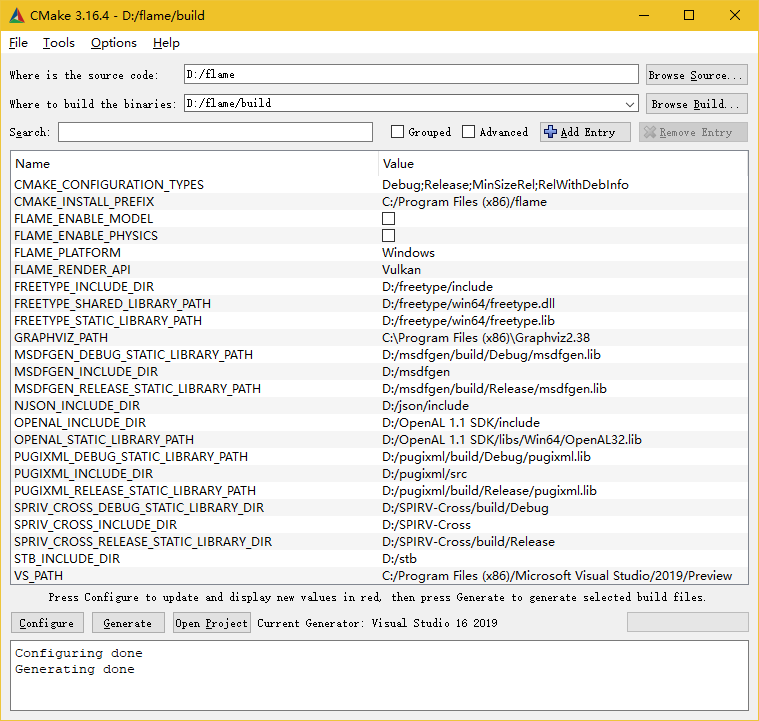
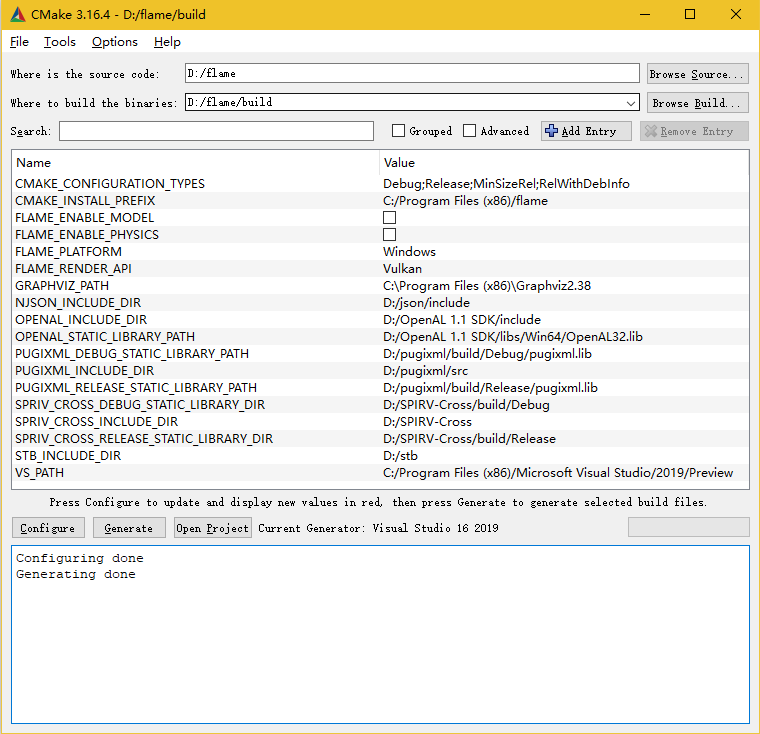
remove freetype

Changed region(s): [[0.0, 0.0, 1.0, 1.0], [0.5455, 0.8544, 0.5758, 0.8849]]

diff --git a/source/graphics/font.cpp b/source/graphics/font.cpp
@@ -5,10 +5,8 @@
 #include <flame/graphics/image.h>
 #include <flame/graphics/font.h>
 
-#include <ft2build.h>
-#include <freetype/freetype.h>
-#include <freetype/ftlcdfil.h>
-#include FT_OUTLINE_H
+#define STB_TRUETYPE_IMPLEMENTATION
+#include <stb_truetype.h>
 
 #include <flame/reflect_macros.h>
 
@@ -16,8 +14,6 @@ namespace flame
 {
 	namespace graphics
 	{
-		FT_Library ft_library = 0;
-
 		void get_latin_code_range(wchar_t& out_begin, wchar_t& out_end)
 		{
 			out_begin = 0x20;
@@ -28,7 +24,7 @@ namespace flame
 		{
 			std::wstring filename;
 			std::string font_file;
-			FT_Face ft_face;
+			stbtt_fontinfo info;
 			uint ref_count;
 
 			Font(const std::wstring& _filename)
@@ -36,20 +32,9 @@ namespace flame
 				filename = _filename;
 				font_file = get_file_content(filename);
 
-				if (!ft_library)
-				{
-					FT_Init_FreeType(&ft_library);
-					FT_Library_SetLcdFilter(ft_library, FT_LCD_FILTER_DEFAULT);
-				}
-
-				FT_New_Memory_Face(ft_library, (uchar*)font_file.data(), font_file.size(), 0, &ft_face);
+				stbtt_InitFont(&info, (uchar*)font_file.data(), stbtt_GetFontOffsetForIndex((uchar*)font_file.data(), 0));
 
 				ref_count = 0;
-			}
-
-			~Font()
-			{
-				FT_Done_Face(ft_face);
 			}
 		};
 
@@ -157,52 +142,36 @@ namespace flame
 
 					for (auto font : fonts)
 					{
-						auto ft_face = font->ft_face;
-						auto glyph_index = FT_Get_Char_Index(ft_face, unicode);
-						if (glyph_index == 0)
+						auto info = &font->info;
+						auto index = stbtt_FindGlyphIndex(info, unicode);
+						if (index == 0)
 							continue;
 
-						FT_Size_RequestRec ft_req = {};
-						ft_req.type = FT_SIZE_REQUEST_TYPE_REAL_DIM;
-						ft_req.height = font_size * 64;
-						FT_Request_Size(ft_face, &ft_req);
-						auto ascender = ft_face->size->metrics.ascender / 64;
-
-						FT_Load_Glyph(ft_face, glyph_index, FT_LOAD_DEFAULT);
-
-						auto ft_glyph = ft_face->glyph;
-						auto size = Vec2u(ft_glyph->bitmap.width, ft_glyph->bitmap.rows);
-						g->size = size;
-						g->off = Vec2u(ft_glyph->bitmap_left, ascender + g->size.y() - ft_glyph->metrics.horiBearingY / 64.f);
-						g->advance = ft_glyph->advance.x / 64;
-
-						if (size > 0U)
+						auto scale = stbtt_ScaleForPixelHeight(info, font_size);
+						auto x = 0, y = 0, w = 0, h = 0, ascent = 0, adv = 0;
+						auto bitmap = stbtt_GetGlyphBitmap(info, scale, scale, index, &w, &h, &x, &y);
+						stbtt_GetFontVMetrics(info, &ascent, 0, 0);
+						ascent *= scale;
+						stbtt_GetGlyphHMetrics(info, index, &adv, nullptr);
+						adv *= scale;
+						g->size = Vec2u(w, h);
+						g->off = Vec2u(x, ascent + h + y);
+						g->advance = adv;
+						if (bitmap)
 						{
-							auto n = bin_pack_root->find(size);
+							auto n = bin_pack_root->find(g->size);
 							if (n)
 							{
 								auto& atlas_pos = n->pos;
 
-								FT_Render_Glyph(ft_glyph, FT_RENDER_MODE_NORMAL);
+								image->set_pixels(atlas_pos, g->size, bitmap);
 
-								auto pitch_ft = ft_glyph->bitmap.pitch;
-								auto pitch_temp = size.x();
-								auto temp = new uchar[pitch_temp * size.y()];
-								for (auto y = 0; y < size.y(); y++)
-								{
-									for (auto x = 0; x < size.x(); x++)
-										temp[y * pitch_temp + x] = ft_glyph->bitmap.buffer[y * pitch_ft + x];
-								}
-
-								image->set_pixels(atlas_pos, size, temp);
-
-								delete[] temp;
-
-								g->uv0 = Vec2f(atlas_pos.x(), atlas_pos.y() + size.y()) / image->size;
-								g->uv1 = Vec2f(atlas_pos.x() + size.x(), atlas_pos.y()) / image->size;
+								g->uv0 = Vec2f(atlas_pos.x(), atlas_pos.y() + g->size.y()) / image->size;
+								g->uv1 = Vec2f(atlas_pos.x() + g->size.x(), atlas_pos.y()) / image->size;
 							}
 							else
 								printf("font atlas is full\n");
+							delete[]bitmap;
 						}
 
 						break;

diff --git a/include/flame/utils/app.h b/include/flame/utils/app.h
@@ -125,12 +125,9 @@ namespace flame
 			sound_context = sound::Context::create(sound_device);
 			sound_context->make_current();
 
-			auto msyh_path = L"c:/windows/fonts/msyh.ttc";
-			if (!std::filesystem::exists(msyh_path))
-				msyh_path = L"c:/windows/fonts/msyh.ttf";
 			auto font_awesome_path = engine_path / L"art/font_awesome.ttf";
 			const wchar_t* fonts[] = {
-				msyh_path,
+				L"c:/windows/fonts/arial.ttf",
 				font_awesome_path.c_str(),
 			};
 			font_atlas = graphics::FontAtlas::create(graphics_device, 2, fonts);

diff --git a/source/foundation/blueprint.cpp b/source/foundation/blueprint.cpp
@@ -117,6 +117,8 @@ namespace flame
 
 		void update_resources_file()
 		{
+			if (test_mode)
+				return;
 			std::filesystem::path path(filename);
 			path.replace_filename(L"bpres");
 			std::ofstream file(path);
@@ -1275,6 +1277,7 @@ namespace flame
 
 		auto bp = new BPPrivate();
 		bp->filename = filename;
+		bp->test_mode = test_mode;
 		bp->update_resources_file();
 
 		for (auto& l_d : library_descs)

diff --git a/tools/bp_editor/main.cpp b/tools/bp_editor/main.cpp
@@ -913,7 +913,7 @@ bool MyApp::create(const char* filename)
 	}
 	utils::c_layout();
 
-	utils::push_font_atlas(app.font_atlas_pixel);
+	utils::push_font_atlas(app.font_atlas);
 	utils::set_current_root(root);
 	utils::push_parent(root);
 

diff --git a/source/sound/buffer_private.h b/source/sound/buffer_private.h
@@ -3,8 +3,6 @@
 #include <flame/sound/buffer.h>
 #include "sound_private.h"
 
-#include <fstream>
-
 namespace flame
 {
 	namespace sound

diff --git a/source/sound/buffer.cpp b/source/sound/buffer.cpp
@@ -1,6 +1,5 @@
-#include "buffer_private.h"
-
 #include <flame/serialize.h>
+#include "buffer_private.h"
 
 namespace flame
 {

diff --git a/include/flame/sound/buffer.h b/include/flame/sound/buffer.h
@@ -2,8 +2,6 @@
 
 #include <flame/sound/sound.h>
 
-#include <string>
-
 namespace flame
 {
 	namespace sound

diff --git a/include/flame/foundation/blueprint.h b/include/flame/foundation/blueprint.h
@@ -141,6 +141,7 @@ namespace flame
 			return 0;
 		}
 
+		bool test_mode;
 		uint frame;
 		float time;
 

diff --git a/README.md b/README.md
@@ -16,8 +16,6 @@ An ECS Game Engine Based On Reflection.
 - njson         - https://github.com/nlohmann/json or https://gitee.com/tkgamegroup/json
 
 - STB           - https://github.com/nothings/stb or https://gitee.com/tkgamegroup/stb
-  
-- freetype      - https://github.com/ubawurinna/freetype-windows-binaries or https://gitee.com/tkgamegroup/freetype-windows-binaries
 
 - SPIRV-Cross   - https://github.com/KhronosGroup/SPIRV-Cross or https://gitee.com/tkgamegroup/SPIRV-Cross
 
